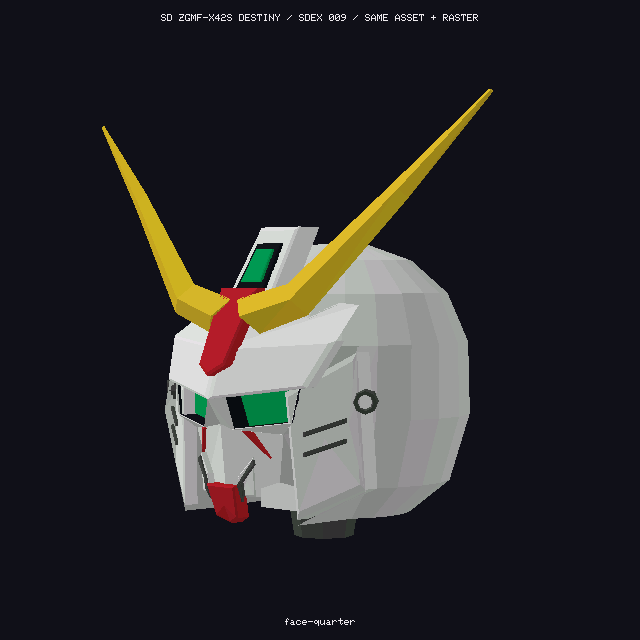
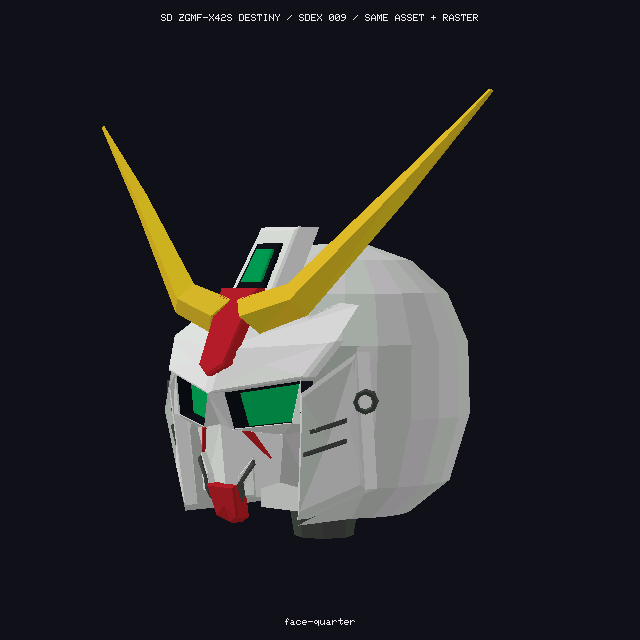
fix(gundam-museum): clear Destiny eye corners and strengthen socket checks

Changed region(s): [[0.25, 0.5625, 0.5312, 0.7812]]

diff --git a/main/apps/app_gundam_museum/model/destiny_gundam.cpp b/main/apps/app_gundam_museum/model/destiny_gundam.cpp
@@ -83,18 +83,20 @@ void head(Builder& b,bool detail,DestinyAssembly* a){
         for(int row=0;row<3;++row){auto u=p(rings[row],s>0?4:20),v=p(rings[row+1],s>0?4:20);
             b.face(edge[row],u,v,edge[row+1],ivory,{s,0,0},true);
         }
-        b.cover({{s*.27f,2.52f,.43f},{s*.48f,2.66f,.29f},{s*.50f,2.19f,.27f},{s*.30f,2.08f,.40f}},.06f,white,.007f);
-        b.cover({{0,2.67f,.49f},{s*.43f,2.70f,.34f},{s*.37f,2.54f,.42f},{0,2.49f,.55f}},.04f,white,.006f);
+        b.cover({{s*.35f,2.52f,.43f},{s*.48f,2.66f,.29f},{s*.50f,2.19f,.27f},{s*.30f,2.08f,.40f}},.06f,white,.007f);
+        b.cover({{0,2.67f,.49f},{s*.43f,2.70f,.34f},{s*.37f,2.575f,.42f},{0,2.51f,.55f}},.04f,white,.006f);
         b.face({0,2.67f,.49f},{s*.43f,2.70f,.34f},{s*.38f,2.82f,.18f},{0,2.86f,.29f},white,{0,1,1},true);
         b.face({0,2.40f,.49f},{s*.23f,2.37f,.40f},{s*.19f,2.20f,.38f},{0,2.13f,.46f},white,{0,0,1},true);
         b.face({s*.23f,2.37f,.40f},{s*.29f,2.39f,.30f},{s*.26f,2.17f,.30f},{s*.19f,2.20f,.38f},ivory,{s,0,1},true);
         const auto eye=[&](float x,float y){return Point{s*x,y,.525f-.32f*x};};
         const std::array<Point,4> opening={eye(.035f,2.515f),eye(.335f,2.565f),eye(.302f,2.415f),eye(.075f,2.385f)};
         buildEyeSocket(b,opening,.072f,ivory,black,green,a?&a->eyes[s>0]:nullptr);
+        b.face(opening[0],{0,2.51f,.55f},{s*.37f,2.575f,.42f},opening[1],ivory,{0,0,1},true);
+        b.face(opening[1],{s*.35f,2.52f,.43f},{s*.338f,2.415f,.423f},opening[2],ivory,{s,0,1},true);
         // Lower orbital ledge and medial bridge belong to the mask, in FRONT
         // of the inset lens. No white mask surface runs behind the eye window.
         b.face(opening[3],opening[2],{s*.23f,2.37f,.40f},{0,2.40f,.49f},white,{0,0,1},true);
-        b.face({0,2.49f,.55f},opening[0],opening[3],{0,2.40f,.49f},ivory,{0,0,1},true);
+        b.face({0,2.51f,.55f},opening[0],opening[3],{0,2.40f,.49f},ivory,{0,0,1},true);
         // The red tear ducts are a Destiny identity cue, not red eyebrows.
         b.cover({{s*.10f,2.38f,.48f},{s*.126f,2.386f,.466f},{s*.18f,2.285f,.418f},{s*.158f,2.31f,.433f}},.012f,red,.002f);
         if(detail){

diff --git a/tools/sd_eye_socket_test.h b/tools/sd_eye_socket_test.h
@@ -44,7 +44,10 @@ inline void check(const Mesh& m,const std::array<EyeSocketAssembly,2>& eyes,floa
         const float aspect=(yh-yl)/(xh-xl);assert(aspect>.48f&&aspect<.8f);
         // Sample the center and four inset corners against ALL head surfaces;
         // a leftover mask/cap over the opening must be caught.
-        for(auto p:m.panels[a.lens.begin].point){auto q=Point{c.x+(p.x-c.x)*.55f,c.y+(p.y-c.y)*.55f,c.z+(p.z-c.z)*.55f};
+        assert(std::abs(frontSurface(m,c.x,c.y)-c.z)<.0001f);
+        for(float inset:{.55f,.90f})for(auto p:m.panels[a.lens.begin].point){auto q=Point{c.x+(p.x-c.x)*inset,c.y+(p.y-c.y)*inset,c.z+(p.z-c.z)*inset};
+            if(std::abs(frontSurface(m,q.x,q.y)-q.z)>=.0001f)
+                std::cerr<<"eye occlusion side="<<side<<" x="<<q.x<<" y="<<q.y<<" lens_z="<<q.z<<" front_z="<<frontSurface(m,q.x,q.y)<<'\n';
             assert(std::abs(frontSurface(m,q.x,q.y)-q.z)<.0001f);
         }
         std::cout<<"eye_socket side="<<side<<" recess="<<depth<<" large_eye_aspect="<<aspect<<'\n';

diff --git a/docs/Gundam-Museum-SDEX-v3-嵌入式大眼.md b/docs/Gundam-Museum-SDEX-v3-嵌入式大眼.md
@@ -16,9 +16,11 @@
 
 CR1 删除叠片并建立大眼凹腔，观察正、斜、侧近景：侧视镜片随眼窝边缘遮挡，前后关系成立。首轮口沿下边过低导致面罩被压短，随后把下眼眶提高到内角 y=2.385、外角 y=2.415，保留大眼面积同时恢复面罩高度；红泪痕跟随下眼眶移回面甲，不横跨镜片。
 
-CR2 从最终生产网格重新看正、两斜、侧面、仰/俯眼部放大、原生静止、完整装备65%与48帧旋转。眼镜片在口沿后方，低俯仰可见上/下内壁、斜视可见内侧壁；旧面罩没有封住镜片采样区。原生大眼仍可辨，未出现明显悬空、跳面或眼色跑到面罩上。放大诊断仅聚焦眼区，天线可能出画；完整装备裁剪另行通过。
+CR2 首次检查中心和内缩55%的四角通过，但随后在强袭斜视发现颊甲伸入眼角，扩大采样到内缩90%的近角点并回跑命运，实际拦截了眉檐压住镜片上角（x=-0.066564、y=2.50564，镜片z=0.4397，前方头面z=0.529037）。因此撤回首次“眼部检查充分”的结论；中心采样和小图审阅不足以排除边角遮挡。
 
-命运3568面（v2为3590）；镜片距口沿平面最小Z退入0.064，镜片正面高宽包围盒比0.60。864组ASan/UBSan通过；内部/埋面/局部刷新差异0，边界差异累计10、单例2；整机边界0，既有装备相交门禁未放宽。新增测试：镜片退入、口沿/内壁/镜片共享连接、完整头部前向射线无遮挡，以及镜片前移/额外白盖遮眼的受控负例。数字验证结构，不等于用户外观认可。
+补修把命运眉檐下缘与眼窗口沿对齐，颊甲内缘移到窗口外，并补上眉檐/外眼眶连接面；镜片尺寸不变。重新生成全部生产证据并查看正、两斜、侧面、仰/俯眼部放大、原生静止、完整装备65%与全部48帧旋转。镜片在口沿后方，低俯仰可见上/下内壁、斜视可见内侧壁；前视中心及近四角不再被旧头面遮住。原生大眼仍可辨，未观察到明显悬空、跳面或眼色跑到面罩上。放大诊断仅聚焦眼区，天线可能出画；完整装备裁剪另行通过。
+
+命运最终3576面（v2为3590，首次v3为3568）；镜片距口沿平面最小Z退入0.064，镜片正面高宽包围盒比0.60。864组ASan/UBSan通过；内部/埋面/局部刷新差异0，边界差异累计10、单例2；整机边界0，既有装备相交门禁未放宽。新增测试：镜片退入、口沿/内壁/镜片共享连接、完整头部前向射线中心及两组内缩角点无遮挡，以及镜片前移/额外白盖遮眼的受控负例。数字验证结构，不等于用户外观认可。
 
 证据：[命运同相机前后](assets/gundam-sd-destiny-v3-eyes/destiny-before-after.png)、[仰视眼窝](assets/gundam-sd-destiny-v3-eyes/study-eyes-below.png)、[旋转](assets/gundam-sd-destiny-v3-eyes/destiny-orbit.gif)。
 

diff --git a/skills/reference-model-workshop/references/pipeline.md b/skills/reference-model-workshop/references/pipeline.md
@@ -50,6 +50,7 @@
 
 - 隔离头部，在固定正/斜/侧面核对：眼区高度和外跨度、眼角、眉檐位置、面罩宽高、下巴长度、口槽数量、红额片轮廓、摄像窗及颊槽。SD 宽眼不能变细长护目镜；微调眼睛时同时查眉檐和下巴，不靠放大眼罩补辨识度。
 - “脸像凸出头盔”先查实际深度和装配：面罩位于颊框围合开口内，眼窝在眉檐后。按本款侧面参考验证前缘关系；RX-78 的探针坐标不能直接用于别款。禁止用拉远/改俯仰掩盖凸脸。
+- **嵌入式大眼**：用户指定大眼时保留其比例，不能靠缩眼消除“贴面罩”感。建立口沿→内壁→镜片斜边的连续几何，镜片退在口沿后，下面罩回接下眼眶；黑底叠彩片不能代替凹腔。检查完整头部对镜片中心与接近四角的遮挡，不能只测中心或仅过滤眼件。两侧斜视及仰/俯近景专查眉檐压上角、颊甲伸入外眼角；发现后移动遮挡边界并回接，不能前移镜片掩盖。增加镜片前移和额外盖面遮眼负例，几何检查仍需配合原生静止/旋转审阅。命运与强袭 v3 回查实际暴露了中心采样漏检，见 `docs/Gundam-Museum-SDEX-v3-嵌入式大眼.md`。
 - 红额冠不能穿眉檐；前摄像窗不能被额片遮住，后窗不能埋进后壳；跨头顶冠带需回接壳体，不能成为悬空拱桥。每次改额冠或后脑都重新看这些连接。
 - V 翼分别校跨度、上扬角、根部宽度、中段/外段宽厚递减及端面。尖锐程度服从本款最新基线：玩具小钝端不等于整支等宽等厚，尖端也不等于针状过细。以多个真实截面和正斜侧图验证，不能只检查两个端点或只检查末端不是单顶点。
 - 局部通过后回看全身和低档原生图。数值在区间内、正面好看、测试通过，都不能抵消侧面失真。
